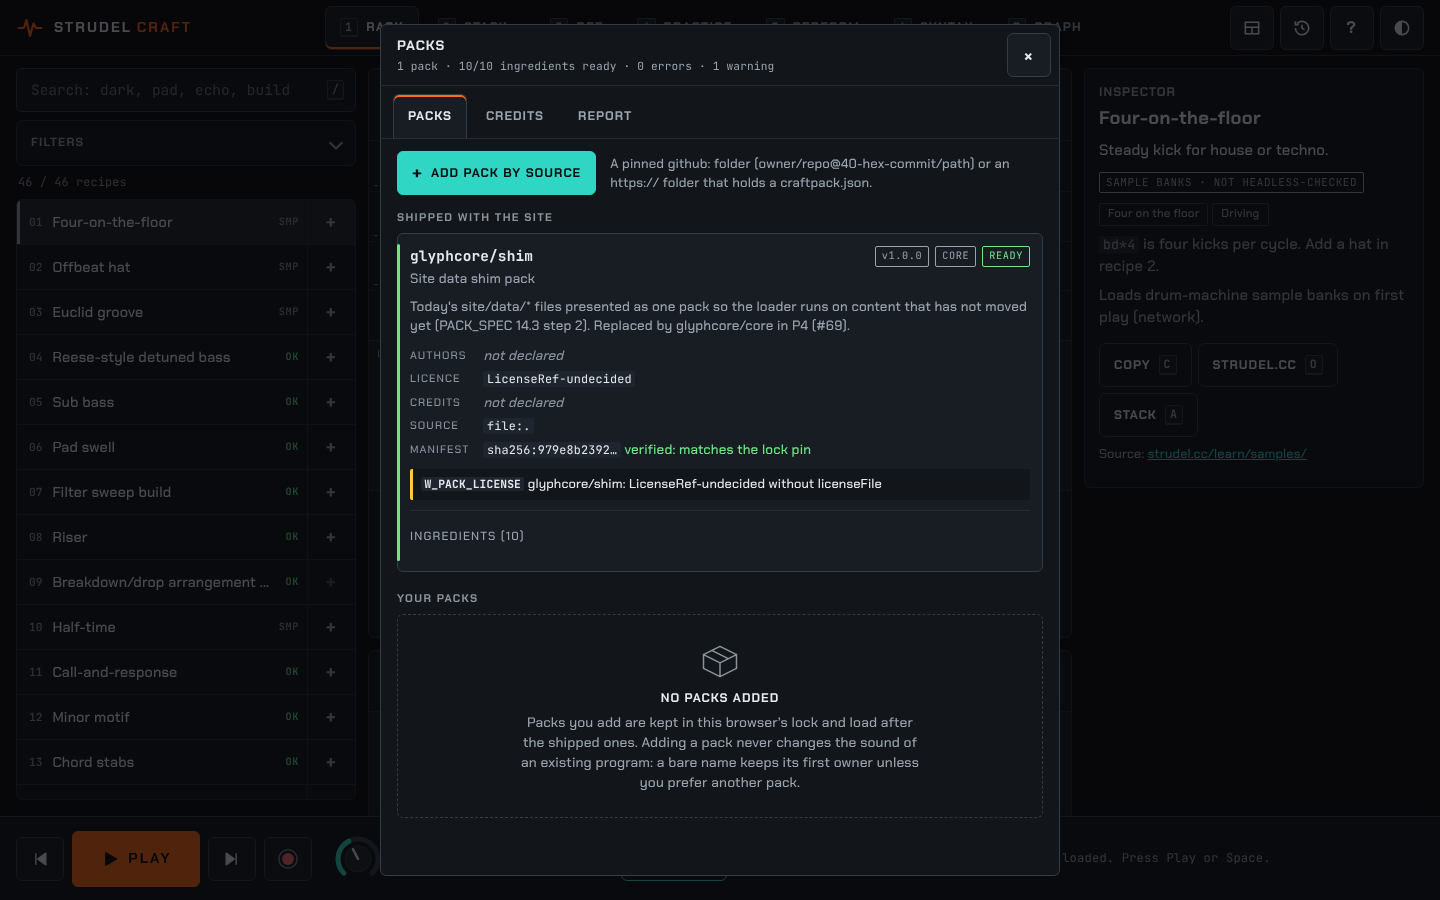
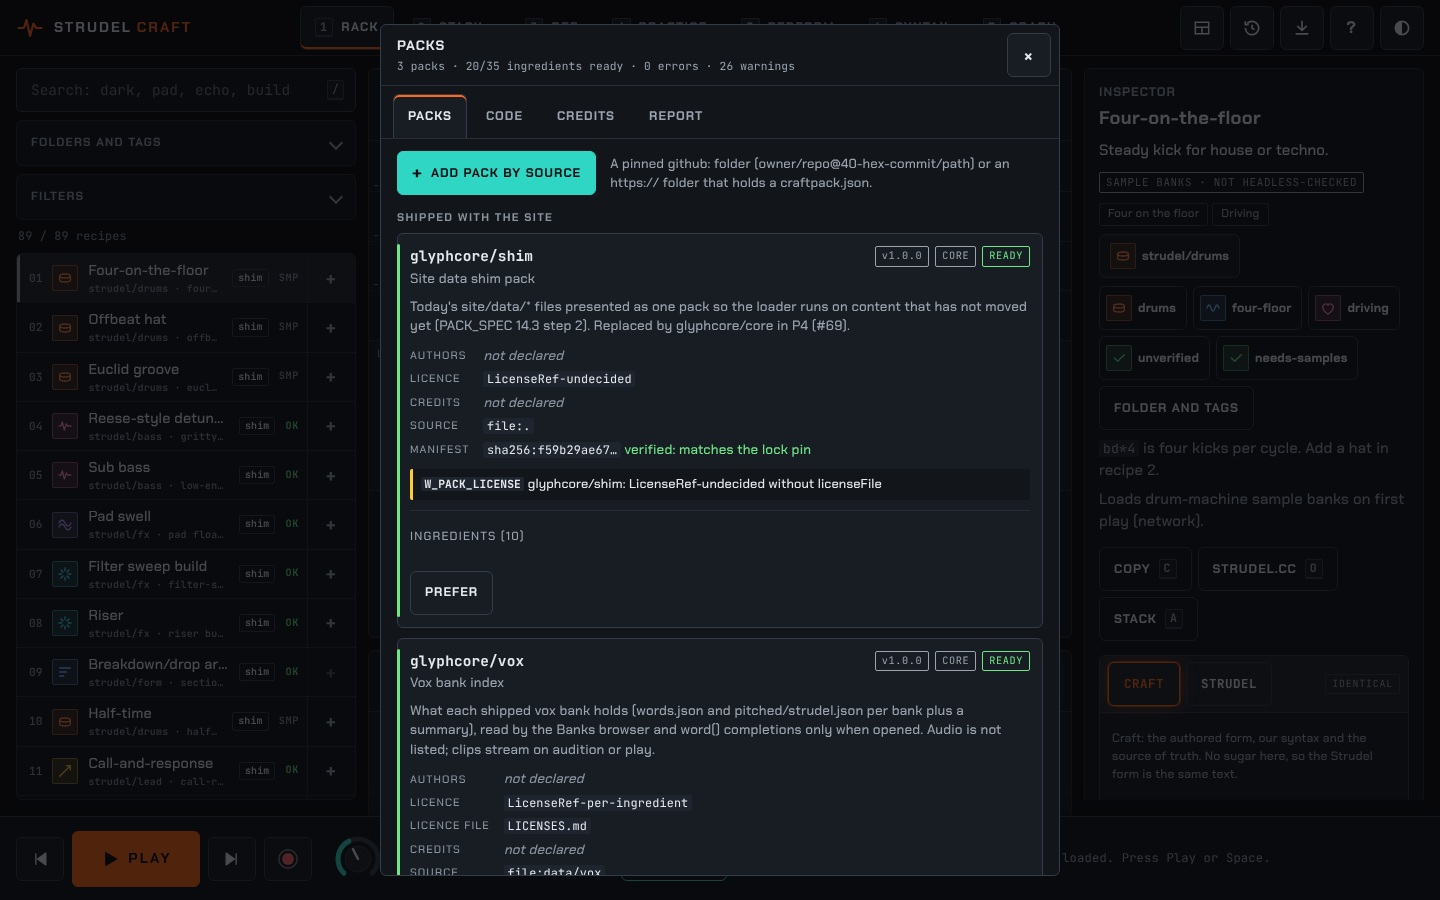
Pack badge on every row uses .ns (core rows stay out of .pk, which packs_ui reads); tests. Refs #120

diff --git a/site/app.js b/site/app.js
@@ -601,7 +601,7 @@ function renderList(keepId) {
         el('span', { class: 'n', 'aria-hidden': 'true' }, String(S.recipes.indexOf(r) + 1).padStart(2, '0')),
         st ? S.orgMod.ico(st) : null,
         el('span', { class: 'tt' }, el('span', { class: 't' }, r.title), e.folder || (e.tags || []).length ? el('span', { class: 'sub' }, [e.folder, (e.tags || []).filter((x) => !['verified', 'unverified'].includes(x) && !(e.folder || '').split('/').includes(x)).slice(0, 2).join(' ')].filter(Boolean).join(' · ')) : null),
-        el('span', { class: 'pk ns' + (foreign.has(r.pack) ? '' : ' own'), title: 'Pack ' + (r.pack || 'glyphcore/shim') }, foreign.has(r.pack) ? r.pack : (r.pack || 'glyphcore/shim').replace(/^glyphcore\//, '')),
+        el('span', { class: foreign.has(r.pack) ? 'pk ns' : 'ns own', title: 'Pack ' + (r.pack || 'glyphcore/shim') }, foreign.has(r.pack) ? r.pack : (r.pack || 'glyphcore/shim').replace(/^glyphcore\//, '')),
         el('span', { class: 'k' + (r.verified ? ' ok' : '') }, r.verified ? 'ok' : r.needs_samples ? 'smp' : '·')),
       el('button', { type: 'button', class: 'add', 'data-add': r.id, 'aria-pressed': inStack ? 'true' : 'false', disabled: !r.expr, 'aria-label': (inStack ? 'Remove ' : 'Add ') + r.title + (inStack ? ' from stack' : ' to stack'), title: r.expr ? 'Stack (A)' : 'Uses top-level statements: solo only' }, inStack ? '−' : '+'));
   }));

diff --git a/site/organizer.css b/site/organizer.css
@@ -50,7 +50,8 @@
 .row .tt{overflow:hidden}
 .row .tt .t,.row .tt .sub{max-width:100%}
 .row .tt .t{flex:none}
-.row .pk.ns{color:var(--text);border-color:var(--line-2)}
+.row .ns{flex:none;max-width:14ch;overflow:hidden;text-overflow:ellipsis;white-space:nowrap;font-family:var(--mono);font-size:.62rem;letter-spacing:.02em;color:var(--dim);border:1px solid var(--line-2);border-radius:var(--r1);padding:1px 5px}
+.row .pk.ns{color:var(--text)}
 /* dialogs */
 .org-form{display:grid;gap:12px}
 .org-form small{color:var(--faint);font-size:.72rem}
